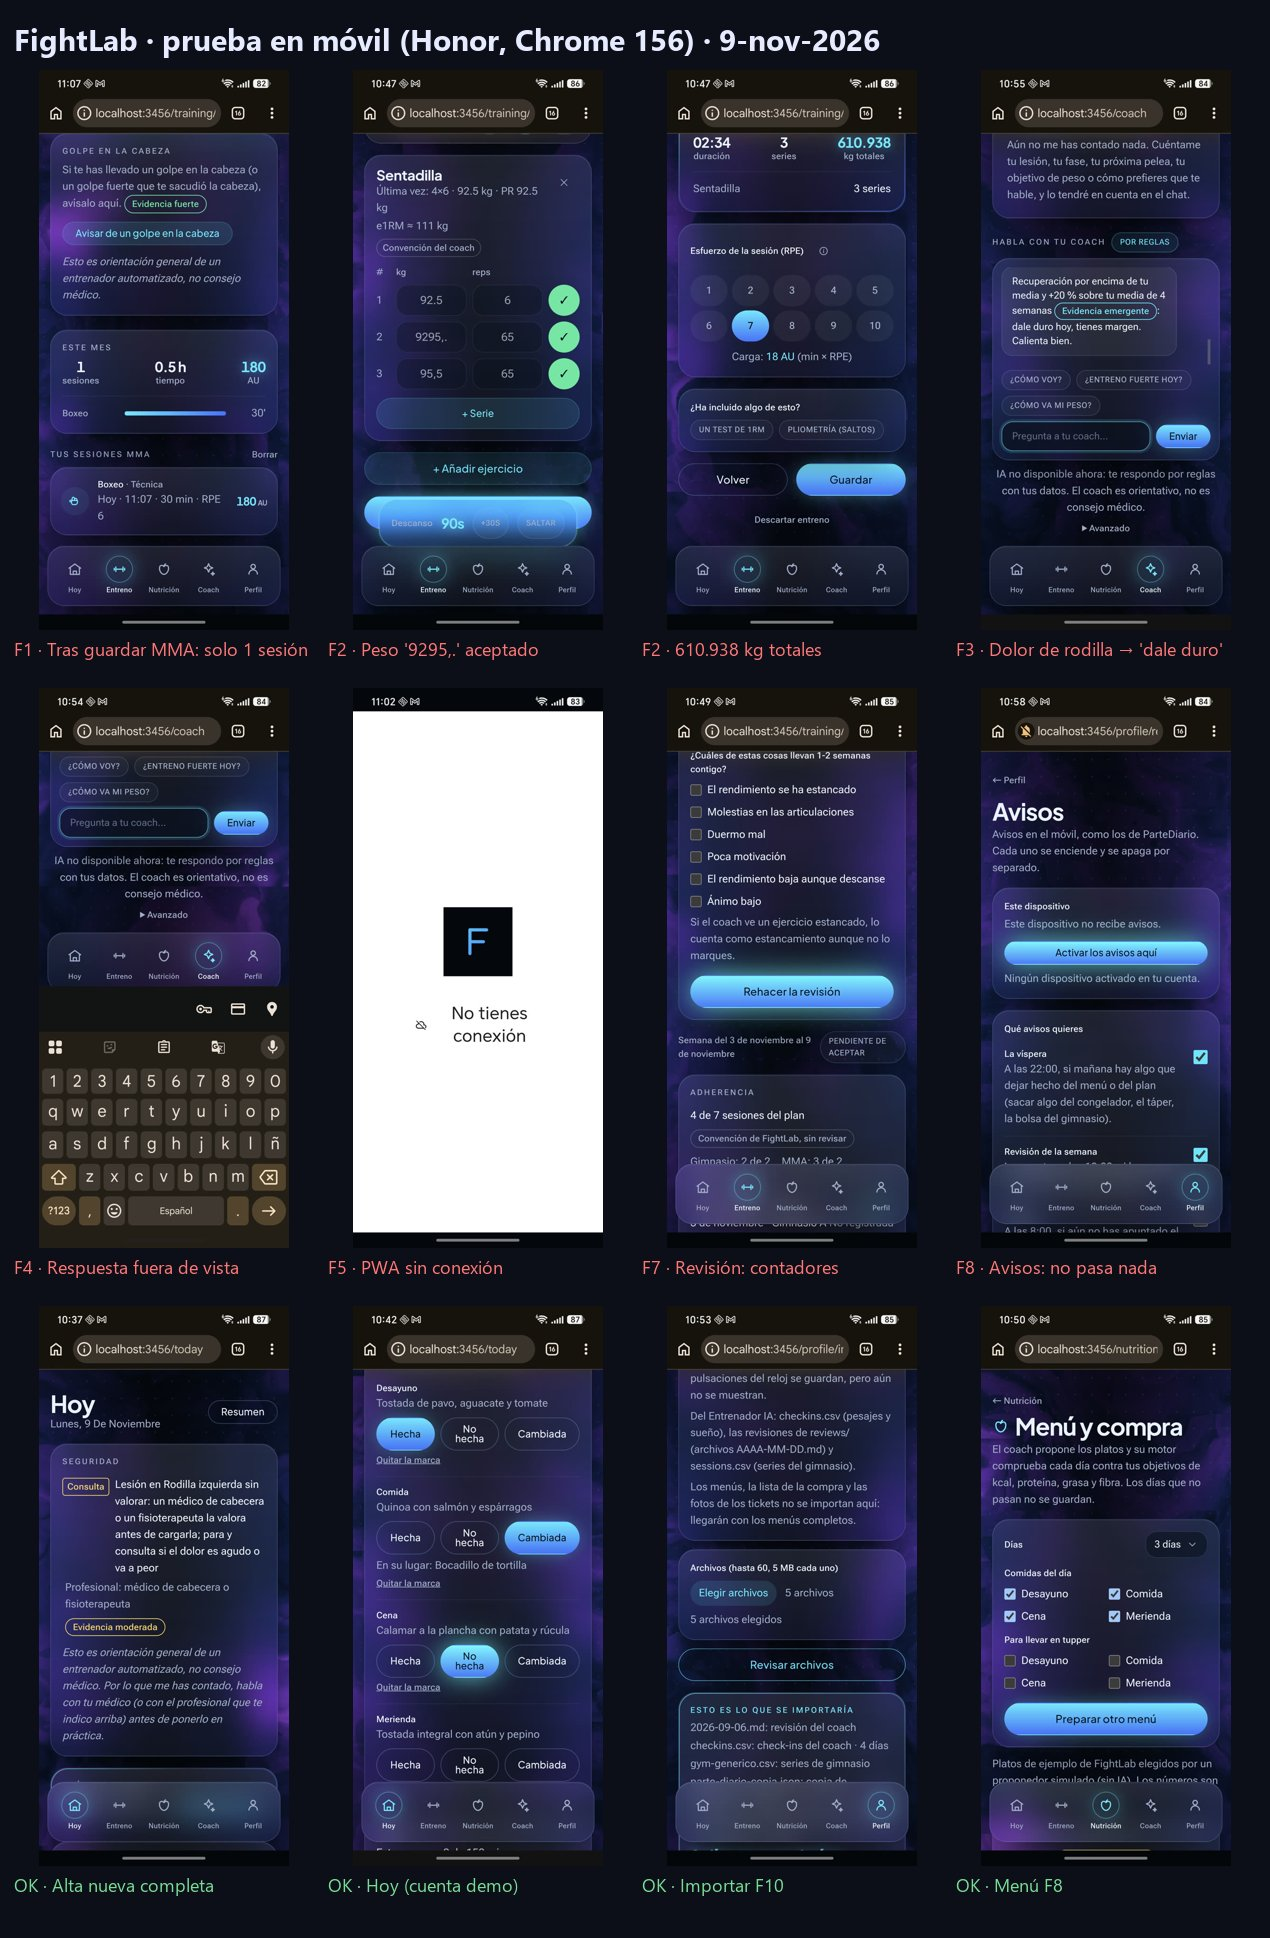
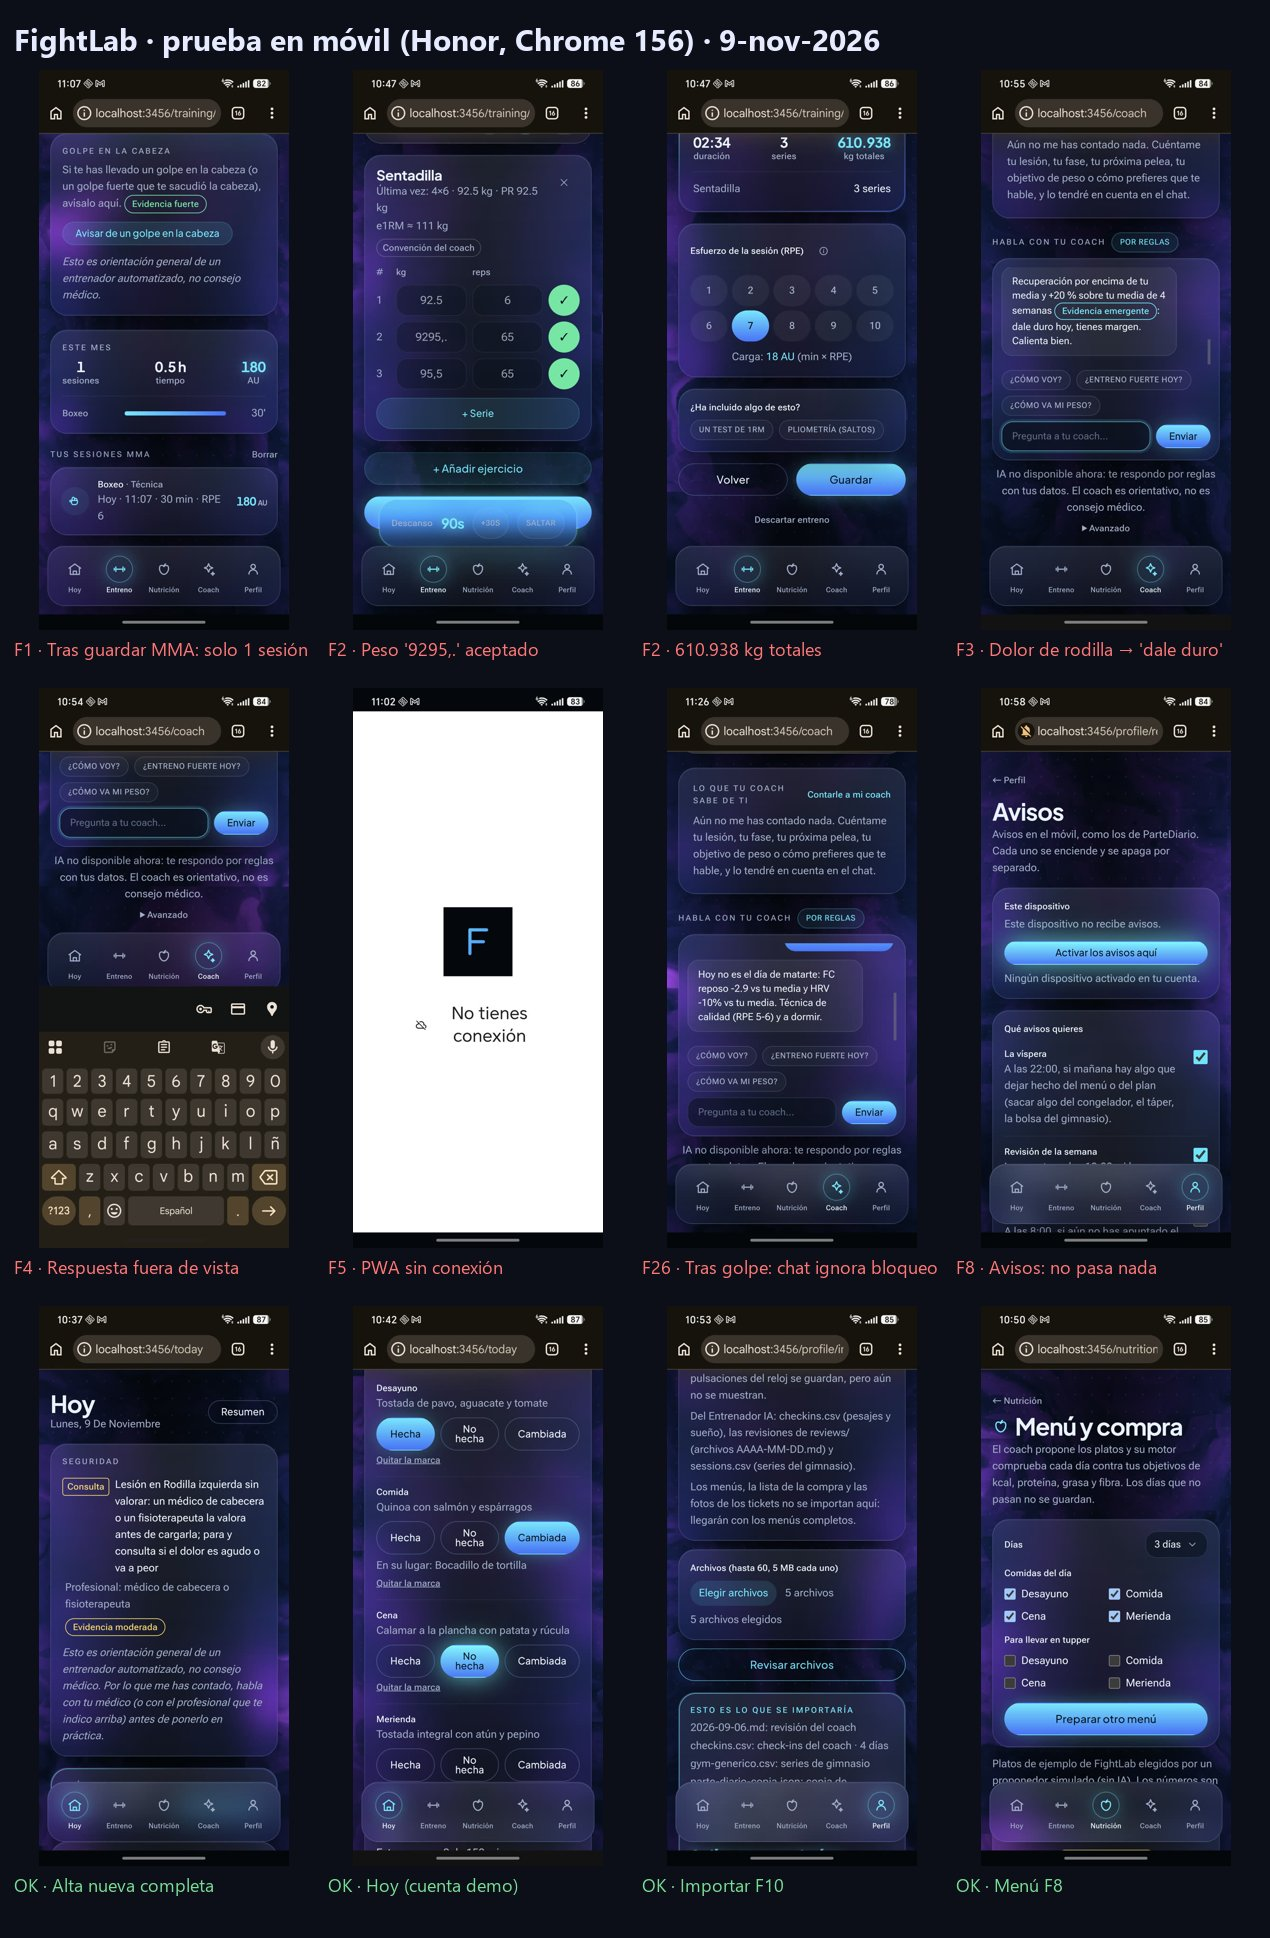
docs(pruebas): segunda ronda de la prueba en móvil
Deportes, biometría, temporizador, golpe en la cabeza, memoria del
coach, gustos del menú y recuperar contraseña. Nuevo fallo de seguridad
F26 (el chat y el plan activo no tienen en cuenta el golpe en la
cabeza), más pruebas de F1, F3 y F9, y menores F27-F30.

Changed region(s): [[0.522, 0.3715, 0.737, 0.6811]]

diff --git a/docs/pruebas/2026-11-09-prueba-movil.md b/docs/pruebas/2026-11-09-prueba-movil.md
@@ -11,9 +11,14 @@ cuenta nueva (`prueba2@fightlab.test`) con el alta completa. Contraseñas de pru
 solo en el `.env` local (sin commit). Sin `ANTHROPIC_API_KEY`: el chat responde por reglas.
 
 **Resumen.** La app funciona de punta a punta en el móvil y se puede usar a diario: alta, Hoy,
-check-in, entrenos, plan, revisión, menú con PDF, importar historial y PWA. **Ningún fallo bloquea.**
-Antes de dejar Entrenador IA conviene arreglar **F3** (seguridad del chat por reglas), **F2** (datos
-de gimnasio corruptos) y **F1** (historial que parece borrado).
+check-in, entrenos, deportes, biometría, temporizador, plan, revisión, menú con PDF, importar
+historial, recuperar contraseña y PWA. **Ningún fallo bloquea.** Antes de dejar Entrenador IA conviene
+arreglar **F3 y F26** (seguridad: el chat por reglas no tiene en cuenta el dolor, la lesión ni un golpe
+en la cabeza), **F2** (datos de gimnasio corruptos) y **F1** (historial que parece borrado).
+
+La prueba se hizo en dos rondas: la primera por la mañana y la segunda, a partir de las 11:15, cuando
+el usuario dejó Chrome abierto para seguir (deportes, biometría, herramientas, golpe en la cabeza,
+memoria del coach, gustos del menú y recuperar contraseña).
 
 Hoja de contacto: [`capturas/00-hoja-de-contacto.jpg`](capturas/00-hoja-de-contacto.jpg).
 
@@ -34,7 +39,29 @@ inseguros) y **menor** (detalle). Ninguno bloquea.
 - **Esperado:** el modo por reglas no debería contestar a mensajes con dolor o lesión con un «dale
   duro». Debería llevar a la regla de dolor nuevo o a «para y consulta», como hacen el check-in y el
   cribado.
-- Captura: [`13-coach-reglas-dale-duro.jpg`](capturas/13-coach-reglas-dale-duro.jpg).
+- **Segunda ronda:** se guardó en «Contarle a mi coach» la lesión «Rodilla derecha tras sparring» y se
+  volvió a preguntar «me duele la rodilla, ¿entreno hoy?». Respuesta: «Hoy no es el día de matarte: FC
+  reposo… Técnica de calidad (RPE 5-6) y a dormir». Habla de la FC y la HRV, pero **no menciona ni el
+  dolor ni la lesión guardada**.
+- Capturas: [`13-coach-reglas-dale-duro.jpg`](capturas/13-coach-reglas-dale-duro.jpg),
+  [`33-coach-memoria-y-dolor.jpg`](capturas/33-coach-memoria-y-dolor.jpg).
+
+#### F26. Tras avisar de un golpe en la cabeza con síntomas, el chat y el plan activo no lo tienen en cuenta (seguridad, prioridad alta)
+- **Pasos:** Entreno → MMA → «Avisar de un golpe en la cabeza» → síntomas: Sí, alarma: No → Guardar
+  aviso. La tarjeta dice bien «CONTACTO BLOQUEADO» y Hoy muestra «El día del golpe, no entrenes».
+  Después: Coach → «¿Entreno fuerte hoy?».
+- **Resultado:**
+  - El chat por reglas contesta «Técnica de calidad (RPE 5-6) y a dormir», sin nombrar el golpe,
+    cuando Hoy dice que ese día no se entrena.
+  - El briefing del Coach sigue con «Ir a entrenar».
+  - El plan de la semana **ya activo** sigue ofreciendo el jueves «Sparring duro, Competición, Rolls
+    duros…». Solo al pulsar «Volver a preparar» pasan a «Fuera esta semana: sin contacto hasta el alta
+    de un clínico», y eso sí está bien.
+- **Esperado:** que el aviso de golpe actualice el plan activo (o avise de que hay que rehacerlo) y que
+  el chat por reglas lo ponga por delante de cualquier otra cosa.
+- Capturas: [`30-golpe-contacto-bloqueado.jpg`](capturas/30-golpe-contacto-bloqueado.jpg),
+  [`31-coach-tras-golpe.jpg`](capturas/31-coach-tras-golpe.jpg),
+  [`32-plan-rehecho-tras-golpe.jpg`](capturas/32-plan-rehecho-tras-golpe.jpg).
 
 #### F2. El peso de una serie admite texto mal formado y corrompe el entreno
 - **Pasos:** Entreno → Gimnasio → Empezar entreno → Sentadilla → «toca para copiar» la serie anterior
@@ -57,7 +84,9 @@ inseguros) y **menor** (detalle). Ninguno bloquea.
   las 10. No se pierden datos, pero parece que se ha borrado el historial. Se ha reproducido 2 veces.
 - **Relacionado:** en Gimnasio, «Últimos entrenos» solo muestra la sesión hecha en este móvil. Las 4
   sesiones de gimnasio de la demo, que están en el servidor, no aparecen ni al recargar. Puede ser la
-  misma causa: la lista sale de la caché local y no del servidor.
+  misma causa: la lista sale de la caché local y no del servidor. Pasa lo mismo en Deportes: «Tu
+  actividad» solo enseña la carrera de hoy y no las 5 sesiones de deporte de la demo
+  ([`27-deporte-solo-sesion-local.jpg`](capturas/27-deporte-solo-sesion-local.jpg)).
 - Capturas: [`08-mma-lista-antes.jpg`](capturas/08-mma-lista-antes.jpg) →
   [`09-mma-lista-tras-guardar.jpg`](capturas/09-mma-lista-tras-guardar.jpg) →
   [`10-mma-lista-tras-recargar.jpg`](capturas/10-mma-lista-tras-recargar.jpg).
@@ -106,8 +135,10 @@ inseguros) y **menor** (detalle). Ninguno bloquea.
 #### F9. El plan propone «Cardio moderado · 5 min» (por confirmar)
 - **Dónde:** el plan de la demo tiene lunes, miércoles y sábado con «Cardio moderado · 5 min», y Hoy
   muestra «Plan del día: Cardio, 5 min». Una sesión de 5 minutos no tiene sentido. Puede venir del
-  motor (lo que falta para llegar a 150 min repartido) o de `seed_demo`. Hay que mirarlo con una cuenta
-  real antes de dar el plan por bueno.
+  motor (lo que falta para llegar a 150 min repartido) o de `seed_demo`. **Segunda ronda:** con 124 de
+  150 min ya hechos, «Volver a preparar» deja esos días en «Descanso». Eso apunta al motor: reparte lo
+  que falta hasta 150 en sesiones sueltas, aunque salgan de 5 minutos. Conviene poner un mínimo por
+  sesión (por ejemplo 20 min) o juntar lo que falta en menos días.
 - Captura: [`06-hoy-demo.jpg`](capturas/06-hoy-demo.jpg).
 
 ### Menor
@@ -119,7 +150,7 @@ inseguros) y **menor** (detalle). Ninguno bloquea.
 | F12 | Decimales con punto en la interfaz en español: «92.5 kg», «80.1 KG» (Coach y chat), «610.938» (¿miles o decimales?). Fecha de nacimiento en ISO en Perfil («1990-06-15») y fechas ISO en el PDF. | Gimnasio, Coach, Perfil, PDF |
 | F13 | Perfil muestra «ATHLETE» en inglés con la app en español. | Perfil |
 | F14 | Error de hidratación de React #418 en la consola en `/training` y `/training/load` (el HTML del servidor no coincide con el del cliente, probablemente la carga leída de `localStorage`). | Consola (CDP) |
-| F15 | Tras «Cerrar sesión», la URL es `/login?reason=expired` (no ha caducado) y siguen saliendo peticiones a `/me`, `/me/profile` y `/coach/safety` que dan 401. | Consola y log del BFF |
+| F15 | Tras «Cerrar sesión» a propósito, la pantalla de entrada dice **«Sesión caducada. Vuelve a iniciar sesión para continuar.»** (URL `/login?reason=expired`), y siguen saliendo peticiones a `/me`, `/me/profile` y `/coach/safety` que dan 401. | [`35-cerrar-sesion-caducada.jpg`](capturas/35-cerrar-sesion-caducada.jpg) |
 | F16 | El icono de la PWA es una «F» y el logo de la app dice «FL». | [`23-pwa-instalar.jpg`](capturas/23-pwa-instalar.jpg) |
 | F17 | Importar con solo archivos ilegibles dice «No hay nada nuevo que importar: todo lo de los archivos ya estaba» y deja el botón «Importar». | [`21-importar-archivos-malos.jpg`](capturas/21-importar-archivos-malos.jpg) |
 | F18 | La barra flotante del descanso entre series tapa el botón «Terminar entreno». | [`11-gym-peso-malformado.jpg`](capturas/11-gym-peso-malformado.jpg) |
@@ -130,6 +161,10 @@ inseguros) y **menor** (detalle). Ninguno bloquea.
 | F23 | Con una lesión en el alta, la tarjeta de seguridad ocupa toda la primera pantalla de Hoy cada día. | [`05-alta-nueva-hoy.jpg`](capturas/05-alta-nueva-hoy.jpg) |
 | F24 | Redondeo: Nutrición dice proteína 160 g y Menú «al menos 161 g». | Nutrición, Menú |
 | F25 | `docker-compose.yml` no lanza `createcachetable`: sin esa tabla, el registro da 500 y la app dice «No se pudo registrar». El README sí lo pone. | Entorno local |
+| F27 | «Elige una contraseña nueva» no tiene un campo de usuario (oculto, con `autocomplete="username"`). Chrome no sabe de qué cuenta es: sugiere su propia contraseña y después pide «Añade tu nombre de usuario». En la prueba, Chrome puso su contraseña sugerida en los dos campos y fue la que se guardó en la cuenta de prueba. | Recuperar contraseña |
+| F28 | Hay dos pesajes el mismo día (el de Hoy a las 8:00 y uno de Biometría a las 11:21) y no queda claro cuál cuenta. Biometría también usa punto decimal («80.3 kg», «IMC 25.4»), y «← Inicio» lleva a `/dashboard`. | [`28-biometria-guardada.jpg`](capturas/28-biometria-guardada.jpg) |
+| F29 | Al preparar otro menú con la cena de hoy marcada «No hecha», la marca pasa al plato nuevo (de «Calamar…» a «Solomillo de cerdo…»), un plato que nunca estuvo en el día. | Hoy, tras «Preparar otro menú» |
+| F30 | Varios `POST /auth/refresh` seguidos (4 a la vez) al volver a la app: parece que varias peticiones renuevan el token a la vez en lugar de esperar a una sola. | Log del backend |
 
 ---
 
@@ -167,6 +202,27 @@ inseguros) y **menor** (detalle). Ninguno bloquea.
   Los nombres de los platos siguen en español porque son datos.
 - **Cron de avisos:** `/api/cron/tick` responde 401 sin secreto o con uno malo, y 200 con el bueno
   (`enabled: true`, llega al backend).
+- **Deportes:** el cronómetro de Correr (intensidad, kcal en vivo) **sigue contando con la app en
+  segundo plano** (52 s reales, 00:52 en pantalla). «Mantén para parar» funciona con pulsación larga.
+  La sesión se guarda con RPE y formato, y suma al cardio de Hoy (vigoroso ×2) junto con el MMA.
+  [`26-deporte-cronometro.jpg`](capturas/26-deporte-cronometro.jpg)
+- **Biometría:** la nueva medición guarda peso (la coma pasa a punto sin problema), FC en reposo y HRV,
+  y activa el estado de readiness («Tómatelo suave»). Tendencia e IMC con su evidencia, gráfica por
+  rangos, y borrar pide confirmación en dos toques («¿Borrar?»).
+- **Herramientas:** el temporizador de asaltos (preset Tabata 8 × 20 s/10 s) cambia bien entre
+  Prepárate, Trabajo y Descanso, va **exacto** frente al reloj (12 muestras cada 2 s) y pide
+  `wakeLock` para que no se apague la pantalla.
+  [`29-timer-rounds.jpg`](capturas/29-timer-rounds.jpg)
+- **Golpe en la cabeza:** la tarjeta «Contacto bloqueado» explica la vuelta al contacto en 6 pasos con
+  el CRT6 oficial, y Hoy muestra el aviso de seguridad. «Volver a preparar» el plan saca todo el
+  contacto con su motivo (ver F26 para lo que falla).
+- **Memoria del coach:** «Contarle a mi coach» guarda la lesión, el objetivo de peso y el tono, y los
+  enseña como etiquetas.
+- **Menú:** valorar un plato («No lo repetiría»), guardar gustos («No te gusta: calamar») y preparar
+  otro menú de 3 días en 5,5 s. **Ni el kéfir ni el calamar vuelven a salir.**
+  [`34-menu-nuevo-gustos.jpg`](capturas/34-menu-nuevo-gustos.jpg)
+- **Recuperar contraseña:** el email llega (por consola), el enlace abre «Elige una contraseña nueva»,
+  la cambia, y se entra con la nueva (ver F27).
 - **PWA:** se instala desde el menú de Chrome («Instalar y crear acceso directo» → Instalar, WebAPK) y
   se abre desde el icono a pantalla completa (`display-mode: standalone`) en `/today`.
 - **Rendimiento (en local, no representa Render):** cada pantalla carga en 0,8–1,25 s hasta
@@ -194,9 +250,10 @@ inseguros) y **menor** (detalle). Ninguno bloquea.
 - **Entorno alojado** (Render dormido, cookies entre Vercel y Render, Neon): fuera del alcance de esta
   prueba local.
 - **Tema claro u oscuro:** no hay ajuste de tema; la app solo tiene tema oscuro.
-- **Sin probar por tiempo:** Deportes, Biometría, Herramientas (temporizador de asaltos), «Avisar de un
-  golpe en la cabeza», cambiar un plato del menú, gustos y búsqueda de productos, «Olvidé mi
-  contraseña» y «Contarle a mi coach».
+- **Búsqueda de productos del súper (Open Food Facts):** está apagada sin `COACH_OFF_CONTACT`, como
+  dice `DEPLOY.md`.
+- **Sonido del temporizador** (aviso de fin de asalto): no se puede oír por adb.
+- **Fotos** (de progreso y de tickets): no se han subido para no tocar la galería del móvil.
 
 ---
 
@@ -221,3 +278,8 @@ inseguros) y **menor** (detalle). Ninguno bloquea.
 - Lo que queda en el móvil: la PWA de prueba «FightLab Pro» (WebAPK de `localhost`, que sin el PC no
   abre nada) y una pestaña de Chrome en `localhost:3456`. No se han quitado para no tocar nada que
   pudiera ser de antes: el usuario puede desinstalar ese icono y cerrar la pestaña.
+- **Gestor de contraseñas de Google:** Chrome ofreció tres veces guardar contraseñas de `localhost`. Las
+  tres se cerraron sin guardar (deslizar, «Cancelar»). Pero en «Elige una contraseña nueva» Chrome puso
+  su contraseña sugerida (ver F27), y Chrome a veces guarda solo las contraseñas que sugiere. Conviene
+  que el usuario mire en passwords.google.com si hay alguna entrada de `localhost` y la borre: es de una
+  cuenta de prueba local, sin valor.
